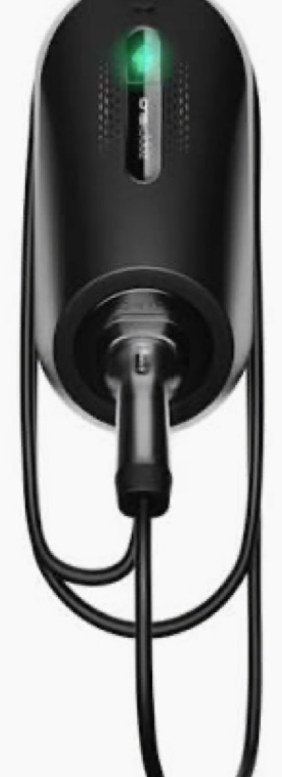
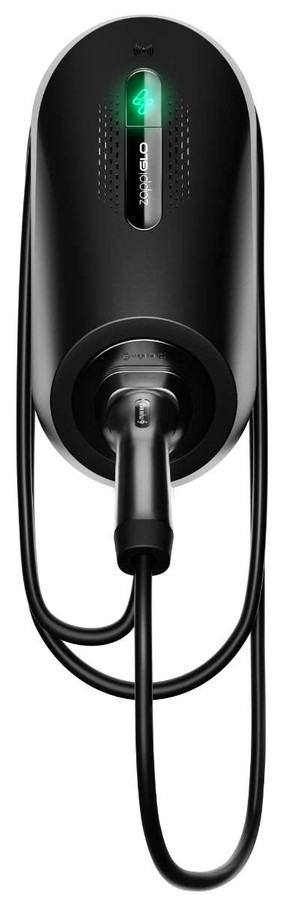
Replace Zappi Glo photo with a confirmed product shot (branding legible: ZappiGLO)

Changed region(s): [[0.0567, 0.0, 0.9645, 1.0], [0.2837, 0.3707, 0.3121, 0.4015]]

diff --git a/ev-charging.html b/ev-charging.html
@@ -18,7 +18,7 @@
 <link rel="preconnect" href="https://fonts.googleapis.com">
 <link rel="preconnect" href="https://fonts.gstatic.com" crossorigin>
 <link rel="stylesheet" href="https://fonts.googleapis.com/css2?family=Archivo:wght@600;700&family=Inter:wght@400;500;600;700&display=swap">
-<link rel="stylesheet" href="assets/site.css?v=49">
+<link rel="stylesheet" href="assets/site.css?v=50">
 <script type="application/ld+json">[{"@context":"https://schema.org","@type":"Service","serviceType":"EV charge point installation","description":"OZEV registered electric vehicle charge point installation for homes and workplaces across Shropshire.","url":"https://swelectrical.co.uk/ev-charging.html","provider":{"@id":"https://swelectrical.co.uk/#business"},"areaServed":{"@type":"AdministrativeArea","name":"Shropshire"},"audience":{"@type":"Audience","audienceType":"Homeowners, landlords, property managers and businesses"}},{"@context":"https://schema.org","@type":"FAQPage","mainEntity":[{"@type":"Question","name":"Do I need off-street parking?","acceptedAnswer":{"@type":"Answer","text":"For a home charge point, yes. The unit needs to reach the car where it is parked, on a drive, in a garage or on your own land. Running a cable across a public pavement is not something that can be signed off, so if you park on the street a home installation will not usually be possible."}},{"@type":"Question","name":"Do I need planning permission?","acceptedAnswer":{"@type":"Answer","text":"In most cases no. A charge point on a house or in a garage normally falls under permitted development, though listed buildings and conservation areas can be different. Your electricity network operator does need to be told about the extra load, and I handle that notification as part of the job, so it's not something you need to arrange."}},{"@type":"Question","name":"Where can the charge point go?","acceptedAnswer":{"@type":"Answer","text":"That depends on your parking, your incoming supply and the run of cable required. I'll look at the options with you before anything is fitted, and explain the trade-offs between the tidiest position and the most practical one."}},{"@type":"Question","name":"Can you fit charge points at a workplace?","acceptedAnswer":{"@type":"Answer","text":"Yes. Workplace and commercial installations are covered as well as domestic ones, including multiple units where the supply allows."}},{"@type":"Question","name":"Should I choose a tethered or untethered charger?","acceptedAnswer":{"@type":"Answer","text":"A tethered unit has the cable permanently attached, which is tidier day to day and means one less thing to carry. An untethered unit has a socket instead, so you use your own cable and it copes better if you change to a vehicle with a different connector. Neither is better in the abstract, it depends on how you use the car."}},{"@type":"Question","name":"Which charger should I choose?","acceptedAnswer":{"@type":"Answer","text":"Ask me directly. Suitability depends on your vehicle, your supply and how you'll use it, so it's better answered for your specific situation than promised in advance on a web page."}},{"@type":"Question","name":"Can I just use a three-pin plug socket instead?","acceptedAnswer":{"@type":"Answer","text":"It is not a sensible substitute. Charging from a standard socket draws a high current for many hours at a time, which is not what ordinary sockets and wiring are designed for, and it is considerably slower. A dedicated charge point is a properly protected circuit built for the job."}},{"@type":"Question","name":"How long does an installation take?","acceptedAnswer":{"@type":"Answer","text":"Around three to four hours for a straightforward installation. It can take longer depending on where the charge point needs to go and how far the cable has to run, so I'll give you a realistic idea once I've seen the job rather than quoting a time blind."}},{"@type":"Question","name":"How long will I wait from booking to installation?","acceptedAnswer":{"@type":"Answer","text":"Usually seven to ten working days for a standard booking. If you are claiming a government grant, allow the same again from the date your grant is approved, since the work cannot go ahead until that comes through."}},{"@type":"Question","name":"Will my power need to be switched off?","acceptedAnswer":{"@type":"Answer","text":"Briefly, yes. Connecting a new circuit at the consumer unit means the supply comes off for a short period. I'll tell you before it happens so you can shut anything down that needs shutting down first."}},{"@type":"Question","name":"Will I get certification for the work?","acceptedAnswer":{"@type":"Answer","text":"Yes. A charge point is a new circuit, so it is tested on completion and you get an electrical installation certificate. I'm NAPIT registered, so the work is notified through NAPIT as well."}},{"@type":"Question","name":"What is a surge protection device?","acceptedAnswer":{"@type":"Answer","text":"An SPD protects an installation against voltage spikes, whether from lightning strikes on the network or switching events further up the supply. Given a charge point is a permanent circuit connected to an expensive vehicle, I fit surge protection as standard on EV installations rather than treating it as an optional extra."}},{"@type":"Question","name":"What does OZEV registered mean?","acceptedAnswer":{"@type":"Answer","text":"OZEV is the Office for Zero Emission Vehicles. Being OZEV registered means I'm on the government's approved installer list for electric vehicle charge points."}}]}]</script>
 </head>
 <body>
@@ -199,7 +199,7 @@
   <a href="tel:+447968991258" data-tel><svg viewBox="0 0 24 24" fill="none" stroke="currentColor" stroke-width="2" stroke-linecap="round" stroke-linejoin="round" aria-hidden="true"><path d="M22 16.9v3a2 2 0 0 1-2.2 2 19.8 19.8 0 0 1-8.6-3.1 19.5 19.5 0 0 1-6-6A19.8 19.8 0 0 1 2.1 4.2 2 2 0 0 1 4.1 2h3a2 2 0 0 1 2 1.7c.1 1 .4 1.9.7 2.8a2 2 0 0 1-.5 2.1L8.1 9.9a16 16 0 0 0 6 6l1.3-1.2a2 2 0 0 1 2.1-.5c.9.3 1.8.6 2.8.7a2 2 0 0 1 1.7 2Z"/></svg>Call Sean</a>
   <a class="wa" href="https://wa.me/447968991258?text=Hi%20Sean%2C%20I'd%20like%20a%20quote%20for%20some%20electrical%20work." data-wa rel="noopener"><svg viewBox="0 0 24 24" fill="currentColor" aria-hidden="true"><path d="M12 2a10 10 0 0 0-8.5 15.2L2 22l4.9-1.4A10 10 0 1 0 12 2Zm5.6 14.1c-.2.6-1.2 1.2-1.7 1.2-.5.1-1 .1-1.6-.1-.4-.1-.9-.3-1.5-.6-2.7-1.2-4.4-3.9-4.5-4.1-.1-.2-1.1-1.4-1.1-2.7s.7-1.9.9-2.2c.2-.2.5-.3.7-.3h.5c.2 0 .4 0 .6.5l.8 2c.1.2.1.3 0 .5l-.3.5-.4.4c-.1.1-.3.3-.1.6.2.3.7 1.2 1.6 2 1.1.9 2 1.2 2.3 1.4.3.1.4.1.6-.1l.9-1c.2-.2.3-.2.6-.1l2 .9c.3.1.5.2.5.3.1.2.1.7-.1 1.4Z"/></svg>WhatsApp</a>
 </div>
-<script src="assets/config.js?v=49"></script>
-<script src="assets/site.js?v=49" defer></script>
+<script src="assets/config.js?v=50"></script>
+<script src="assets/site.js?v=50" defer></script>
 </body>
 </html>

diff --git a/index.html b/index.html
@@ -18,7 +18,7 @@
 <link rel="preconnect" href="https://fonts.googleapis.com">
 <link rel="preconnect" href="https://fonts.gstatic.com" crossorigin>
 <link rel="stylesheet" href="https://fonts.googleapis.com/css2?family=Archivo:wght@600;700&family=Inter:wght@400;500;600;700&display=swap">
-<link rel="stylesheet" href="assets/site.css?v=49">
+<link rel="stylesheet" href="assets/site.css?v=50">
 <script type="application/ld+json">[{"@context":"https://schema.org","@type":"Electrician","@id":"https://swelectrical.co.uk/#business","name":"SW Electrical","alternateName":"S Warrender Electrical","url":"https://swelectrical.co.uk/","logo":"https://swelectrical.co.uk/assets/logo-mark.svg","image":"https://swelectrical.co.uk/assets/logo-mark.svg","description":"Domestic and commercial electrician and OZEV registered EV charge point installer, based in Shrewsbury and covering Shropshire and the surrounding counties.","telephone":"+447968991258","email":"info@swelectrical.co.uk","founder":{"@type":"Person","name":"Sean Warrender"},"address":{"@type":"PostalAddress","addressLocality":"Shrewsbury","addressRegion":"Shropshire","postalCode":"SY3 9NT","addressCountry":"GB"},"areaServed":[{"@type":"AdministrativeArea","name":"Shropshire"},{"@type":"AdministrativeArea","name":"Staffordshire"},{"@type":"AdministrativeArea","name":"Cheshire"},{"@type":"AdministrativeArea","name":"West Midlands"}],"serviceArea":{"@type":"GeoCircle","geoMidpoint":{"@type":"GeoCoordinates","address":"SY3 9NT"},"geoRadius":"64000"},"openingHoursSpecification":[{"@type":"OpeningHoursSpecification","dayOfWeek":["Monday","Tuesday","Wednesday","Thursday","Friday"],"opens":"09:00","closes":"17:00"}],"hasCredential":["NAPIT registered","OZEV registered EV charge point installer"],"knowsAbout":["Domestic electrical installation","Commercial electrical installation","EV charge point installation","Electrical inspection and testing"],"hasOfferCatalog":{"@type":"OfferCatalog","name":"Electrical services","itemListElement":[{"@type":"Offer","itemOffered":{"@type":"Service","name":"Domestic electrical work","url":"https://swelectrical.co.uk/domestic-electrician.html"}},{"@type":"Offer","itemOffered":{"@type":"Service","name":"Commercial electrical work","url":"https://swelectrical.co.uk/commercial-electrician.html"}},{"@type":"Offer","itemOffered":{"@type":"Service","name":"EV charge point installation","url":"https://swelectrical.co.uk/ev-charging.html"}}]}},{"@context":"https://schema.org","@type":"FAQPage","mainEntity":[{"@type":"Question","name":"Which areas do you cover?","acceptedAnswer":{"@type":"Answer","text":"Shrewsbury and the whole of Shropshire, plus parts of Staffordshire, the Midlands and Cheshire. As a rule of thumb, roughly a 40 mile radius of SY3 9NT. If you're not sure whether you're in range, ask and I'll tell you straight."}},{"@type":"Question","name":"Do you take emergency call-outs?","acceptedAnswer":{"@type":"Answer","text":"Yes. Normal working hours are Monday to Friday, 9am to 5pm, but emergency call-outs are available at any time. If you have lost power, smell burning or have a fault you think is unsafe, call rather than email."}},{"@type":"Question","name":"Do you work for homeowners as well as businesses?","acceptedAnswer":{"@type":"Answer","text":"Both. I work for homeowners, landlords and property managers on domestic jobs, and for shops, offices, workshops and other commercial premises."}},{"@type":"Question","name":"Are you registered?","acceptedAnswer":{"@type":"Answer","text":"Yes. SW Electrical is registered with NAPIT for electrical work, and I'm OZEV registered for EV charge point installation."}},{"@type":"Question","name":"How do I get a quote?","acceptedAnswer":{"@type":"Answer","text":"Call or WhatsApp with a quick description of the job, or send the enquiry form with your postcode and a few details. For anything larger, I'll usually want to see the site before pricing it."}},{"@type":"Question","name":"When will air conditioning be available?","acceptedAnswer":{"@type":"Answer","text":"Air conditioning is planned, not live. The relevant registrations need to be in place before SW Electrical takes on that work, so nothing is being booked yet. You're welcome to register your interest and I'll let you know when it opens."}}]}]</script>
 </head>
 <body>
@@ -199,8 +199,8 @@
   <a href="tel:+447968991258" data-tel><svg viewBox="0 0 24 24" fill="none" stroke="currentColor" stroke-width="2" stroke-linecap="round" stroke-linejoin="round" aria-hidden="true"><path d="M22 16.9v3a2 2 0 0 1-2.2 2 19.8 19.8 0 0 1-8.6-3.1 19.5 19.5 0 0 1-6-6A19.8 19.8 0 0 1 2.1 4.2 2 2 0 0 1 4.1 2h3a2 2 0 0 1 2 1.7c.1 1 .4 1.9.7 2.8a2 2 0 0 1-.5 2.1L8.1 9.9a16 16 0 0 0 6 6l1.3-1.2a2 2 0 0 1 2.1-.5c.9.3 1.8.6 2.8.7a2 2 0 0 1 1.7 2Z"/></svg>Call Sean</a>
   <a class="wa" href="https://wa.me/447968991258?text=Hi%20Sean%2C%20I'd%20like%20a%20quote%20for%20some%20electrical%20work." data-wa rel="noopener"><svg viewBox="0 0 24 24" fill="currentColor" aria-hidden="true"><path d="M12 2a10 10 0 0 0-8.5 15.2L2 22l4.9-1.4A10 10 0 1 0 12 2Zm5.6 14.1c-.2.6-1.2 1.2-1.7 1.2-.5.1-1 .1-1.6-.1-.4-.1-.9-.3-1.5-.6-2.7-1.2-4.4-3.9-4.5-4.1-.1-.2-1.1-1.4-1.1-2.7s.7-1.9.9-2.2c.2-.2.5-.3.7-.3h.5c.2 0 .4 0 .6.5l.8 2c.1.2.1.3 0 .5l-.3.5-.4.4c-.1.1-.3.3-.1.6.2.3.7 1.2 1.6 2 1.1.9 2 1.2 2.3 1.4.3.1.4.1.6-.1l.9-1c.2-.2.3-.2.6-.1l2 .9c.3.1.5.2.5.3.1.2.1.7-.1 1.4Z"/></svg>WhatsApp</a>
 </div>
-<script src="assets/config.js?v=49"></script>
-<script src="assets/site.js?v=49" defer></script>
-<script src="assets/map.js?v=49" defer></script>
+<script src="assets/config.js?v=50"></script>
+<script src="assets/site.js?v=50" defer></script>
+<script src="assets/map.js?v=50" defer></script>
 </body>
 </html>

diff --git a/contact.html b/contact.html
@@ -18,7 +18,7 @@
 <link rel="preconnect" href="https://fonts.googleapis.com">
 <link rel="preconnect" href="https://fonts.gstatic.com" crossorigin>
 <link rel="stylesheet" href="https://fonts.googleapis.com/css2?family=Archivo:wght@600;700&family=Inter:wght@400;500;600;700&display=swap">
-<link rel="stylesheet" href="assets/site.css?v=49">
+<link rel="stylesheet" href="assets/site.css?v=50">
 <script type="application/ld+json">[{"@context":"https://schema.org","@type":"Electrician","@id":"https://swelectrical.co.uk/#business","name":"SW Electrical","alternateName":"S Warrender Electrical","url":"https://swelectrical.co.uk/","logo":"https://swelectrical.co.uk/assets/logo-mark.svg","image":"https://swelectrical.co.uk/assets/logo-mark.svg","description":"Domestic and commercial electrician and OZEV registered EV charge point installer, based in Shrewsbury and covering Shropshire and the surrounding counties.","telephone":"+447968991258","email":"info@swelectrical.co.uk","founder":{"@type":"Person","name":"Sean Warrender"},"address":{"@type":"PostalAddress","addressLocality":"Shrewsbury","addressRegion":"Shropshire","postalCode":"SY3 9NT","addressCountry":"GB"},"areaServed":[{"@type":"AdministrativeArea","name":"Shropshire"},{"@type":"AdministrativeArea","name":"Staffordshire"},{"@type":"AdministrativeArea","name":"Cheshire"},{"@type":"AdministrativeArea","name":"West Midlands"}],"serviceArea":{"@type":"GeoCircle","geoMidpoint":{"@type":"GeoCoordinates","address":"SY3 9NT"},"geoRadius":"64000"},"openingHoursSpecification":[{"@type":"OpeningHoursSpecification","dayOfWeek":["Monday","Tuesday","Wednesday","Thursday","Friday"],"opens":"09:00","closes":"17:00"}],"hasCredential":["NAPIT registered","OZEV registered EV charge point installer"],"knowsAbout":["Domestic electrical installation","Commercial electrical installation","EV charge point installation","Electrical inspection and testing"],"hasOfferCatalog":{"@type":"OfferCatalog","name":"Electrical services","itemListElement":[{"@type":"Offer","itemOffered":{"@type":"Service","name":"Domestic electrical work","url":"https://swelectrical.co.uk/domestic-electrician.html"}},{"@type":"Offer","itemOffered":{"@type":"Service","name":"Commercial electrical work","url":"https://swelectrical.co.uk/commercial-electrician.html"}},{"@type":"Offer","itemOffered":{"@type":"Service","name":"EV charge point installation","url":"https://swelectrical.co.uk/ev-charging.html"}}]}},{"@context":"https://schema.org","@type":"ContactPage","url":"https://swelectrical.co.uk/contact.html","about":{"@id":"https://swelectrical.co.uk/#business"}}]</script>
 </head>
 <body>
@@ -172,8 +172,8 @@
   <a href="tel:+447968991258" data-tel><svg viewBox="0 0 24 24" fill="none" stroke="currentColor" stroke-width="2" stroke-linecap="round" stroke-linejoin="round" aria-hidden="true"><path d="M22 16.9v3a2 2 0 0 1-2.2 2 19.8 19.8 0 0 1-8.6-3.1 19.5 19.5 0 0 1-6-6A19.8 19.8 0 0 1 2.1 4.2 2 2 0 0 1 4.1 2h3a2 2 0 0 1 2 1.7c.1 1 .4 1.9.7 2.8a2 2 0 0 1-.5 2.1L8.1 9.9a16 16 0 0 0 6 6l1.3-1.2a2 2 0 0 1 2.1-.5c.9.3 1.8.6 2.8.7a2 2 0 0 1 1.7 2Z"/></svg>Call Sean</a>
   <a class="wa" href="https://wa.me/447968991258?text=Hi%20Sean%2C%20I'd%20like%20a%20quote%20for%20some%20electrical%20work." data-wa rel="noopener"><svg viewBox="0 0 24 24" fill="currentColor" aria-hidden="true"><path d="M12 2a10 10 0 0 0-8.5 15.2L2 22l4.9-1.4A10 10 0 1 0 12 2Zm5.6 14.1c-.2.6-1.2 1.2-1.7 1.2-.5.1-1 .1-1.6-.1-.4-.1-.9-.3-1.5-.6-2.7-1.2-4.4-3.9-4.5-4.1-.1-.2-1.1-1.4-1.1-2.7s.7-1.9.9-2.2c.2-.2.5-.3.7-.3h.5c.2 0 .4 0 .6.5l.8 2c.1.2.1.3 0 .5l-.3.5-.4.4c-.1.1-.3.3-.1.6.2.3.7 1.2 1.6 2 1.1.9 2 1.2 2.3 1.4.3.1.4.1.6-.1l.9-1c.2-.2.3-.2.6-.1l2 .9c.3.1.5.2.5.3.1.2.1.7-.1 1.4Z"/></svg>WhatsApp</a>
 </div>
-<script src="assets/config.js?v=49"></script>
-<script src="assets/site.js?v=49" defer></script>
-<script src="assets/map.js?v=49" defer></script>
+<script src="assets/config.js?v=50"></script>
+<script src="assets/site.js?v=50" defer></script>
+<script src="assets/map.js?v=50" defer></script>
 </body>
 </html>

diff --git a/domestic-electrician.html b/domestic-electrician.html
@@ -18,7 +18,7 @@
 <link rel="preconnect" href="https://fonts.googleapis.com">
 <link rel="preconnect" href="https://fonts.gstatic.com" crossorigin>
 <link rel="stylesheet" href="https://fonts.googleapis.com/css2?family=Archivo:wght@600;700&family=Inter:wght@400;500;600;700&display=swap">
-<link rel="stylesheet" href="assets/site.css?v=49">
+<link rel="stylesheet" href="assets/site.css?v=50">
 <script type="application/ld+json">[{"@context":"https://schema.org","@type":"Service","serviceType":"Domestic electrical work","description":"Rewires, consumer units, sockets, lighting, fault finding, inspection and testing for homes across Shropshire.","url":"https://swelectrical.co.uk/domestic-electrician.html","provider":{"@id":"https://swelectrical.co.uk/#business"},"areaServed":{"@type":"AdministrativeArea","name":"Shropshire"},"audience":{"@type":"Audience","audienceType":"Homeowners, landlords, property managers and businesses"}},{"@context":"https://schema.org","@type":"FAQPage","mainEntity":[{"@type":"Question","name":"Do you do small jobs?","acceptedAnswer":{"@type":"Answer","text":"Yes. Extra sockets, a light fitting, a faulty circuit, an outside socket. Small jobs are still worth doing properly."}},{"@type":"Question","name":"Can you provide a landlord's electrical report?","acceptedAnswer":{"@type":"Answer","text":"Yes. I carry out periodic inspection and testing and provide the written report, along with any remedial work needed."}},{"@type":"Question","name":"Will you make a mess?","acceptedAnswer":{"@type":"Answer","text":"Chasing walls and lifting boards is sometimes unavoidable, but dust sheets go down, mess gets cleared, and you will be told in advance if making good is needed."}}]}]</script>
 </head>
 <body>
@@ -128,7 +128,7 @@
   <a href="tel:+447968991258" data-tel><svg viewBox="0 0 24 24" fill="none" stroke="currentColor" stroke-width="2" stroke-linecap="round" stroke-linejoin="round" aria-hidden="true"><path d="M22 16.9v3a2 2 0 0 1-2.2 2 19.8 19.8 0 0 1-8.6-3.1 19.5 19.5 0 0 1-6-6A19.8 19.8 0 0 1 2.1 4.2 2 2 0 0 1 4.1 2h3a2 2 0 0 1 2 1.7c.1 1 .4 1.9.7 2.8a2 2 0 0 1-.5 2.1L8.1 9.9a16 16 0 0 0 6 6l1.3-1.2a2 2 0 0 1 2.1-.5c.9.3 1.8.6 2.8.7a2 2 0 0 1 1.7 2Z"/></svg>Call Sean</a>
   <a class="wa" href="https://wa.me/447968991258?text=Hi%20Sean%2C%20I'd%20like%20a%20quote%20for%20some%20electrical%20work." data-wa rel="noopener"><svg viewBox="0 0 24 24" fill="currentColor" aria-hidden="true"><path d="M12 2a10 10 0 0 0-8.5 15.2L2 22l4.9-1.4A10 10 0 1 0 12 2Zm5.6 14.1c-.2.6-1.2 1.2-1.7 1.2-.5.1-1 .1-1.6-.1-.4-.1-.9-.3-1.5-.6-2.7-1.2-4.4-3.9-4.5-4.1-.1-.2-1.1-1.4-1.1-2.7s.7-1.9.9-2.2c.2-.2.5-.3.7-.3h.5c.2 0 .4 0 .6.5l.8 2c.1.2.1.3 0 .5l-.3.5-.4.4c-.1.1-.3.3-.1.6.2.3.7 1.2 1.6 2 1.1.9 2 1.2 2.3 1.4.3.1.4.1.6-.1l.9-1c.2-.2.3-.2.6-.1l2 .9c.3.1.5.2.5.3.1.2.1.7-.1 1.4Z"/></svg>WhatsApp</a>
 </div>
-<script src="assets/config.js?v=49"></script>
-<script src="assets/site.js?v=49" defer></script>
+<script src="assets/config.js?v=50"></script>
+<script src="assets/site.js?v=50" defer></script>
 </body>
 </html>

diff --git a/commercial-electrician.html b/commercial-electrician.html
@@ -18,7 +18,7 @@
 <link rel="preconnect" href="https://fonts.googleapis.com">
 <link rel="preconnect" href="https://fonts.gstatic.com" crossorigin>
 <link rel="stylesheet" href="https://fonts.googleapis.com/css2?family=Archivo:wght@600;700&family=Inter:wght@400;500;600;700&display=swap">
-<link rel="stylesheet" href="assets/site.css?v=49">
+<link rel="stylesheet" href="assets/site.css?v=50">
 <script type="application/ld+json">[{"@context":"https://schema.org","@type":"Service","serviceType":"Commercial electrical work","description":"Electrical installation, maintenance, repair, inspection and testing for commercial premises across Shropshire.","url":"https://swelectrical.co.uk/commercial-electrician.html","provider":{"@id":"https://swelectrical.co.uk/#business"},"areaServed":{"@type":"AdministrativeArea","name":"Shropshire"},"audience":{"@type":"Audience","audienceType":"Homeowners, landlords, property managers and businesses"}},{"@context":"https://schema.org","@type":"FAQPage","mainEntity":[{"@type":"Question","name":"Can you work outside our opening hours?","acceptedAnswer":{"@type":"Answer","text":"Where the job allows it, yes. Evening and weekend work can usually be arranged so the disruption lands when the premises is quiet."}},{"@type":"Question","name":"Do you take on maintenance as well as installation?","acceptedAnswer":{"@type":"Answer","text":"Yes. Ongoing maintenance, planned upgrades and reactive repairs are all part of the commercial work."}},{"@type":"Question","name":"Do you cover emergencies for businesses?","acceptedAnswer":{"@type":"Answer","text":"Yes. Emergency call-outs are available at any time, including outside the standard Monday to Friday hours."}}]}]</script>
 </head>
 <body>
@@ -120,7 +120,7 @@
   <a href="tel:+447968991258" data-tel><svg viewBox="0 0 24 24" fill="none" stroke="currentColor" stroke-width="2" stroke-linecap="round" stroke-linejoin="round" aria-hidden="true"><path d="M22 16.9v3a2 2 0 0 1-2.2 2 19.8 19.8 0 0 1-8.6-3.1 19.5 19.5 0 0 1-6-6A19.8 19.8 0 0 1 2.1 4.2 2 2 0 0 1 4.1 2h3a2 2 0 0 1 2 1.7c.1 1 .4 1.9.7 2.8a2 2 0 0 1-.5 2.1L8.1 9.9a16 16 0 0 0 6 6l1.3-1.2a2 2 0 0 1 2.1-.5c.9.3 1.8.6 2.8.7a2 2 0 0 1 1.7 2Z"/></svg>Call Sean</a>
   <a class="wa" href="https://wa.me/447968991258?text=Hi%20Sean%2C%20I'd%20like%20a%20quote%20for%20some%20electrical%20work." data-wa rel="noopener"><svg viewBox="0 0 24 24" fill="currentColor" aria-hidden="true"><path d="M12 2a10 10 0 0 0-8.5 15.2L2 22l4.9-1.4A10 10 0 1 0 12 2Zm5.6 14.1c-.2.6-1.2 1.2-1.7 1.2-.5.1-1 .1-1.6-.1-.4-.1-.9-.3-1.5-.6-2.7-1.2-4.4-3.9-4.5-4.1-.1-.2-1.1-1.4-1.1-2.7s.7-1.9.9-2.2c.2-.2.5-.3.7-.3h.5c.2 0 .4 0 .6.5l.8 2c.1.2.1.3 0 .5l-.3.5-.4.4c-.1.1-.3.3-.1.6.2.3.7 1.2 1.6 2 1.1.9 2 1.2 2.3 1.4.3.1.4.1.6-.1l.9-1c.2-.2.3-.2.6-.1l2 .9c.3.1.5.2.5.3.1.2.1.7-.1 1.4Z"/></svg>WhatsApp</a>
 </div>
-<script src="assets/config.js?v=49"></script>
-<script src="assets/site.js?v=49" defer></script>
+<script src="assets/config.js?v=50"></script>
+<script src="assets/site.js?v=50" defer></script>
 </body>
 </html>

diff --git a/air-conditioning.html b/air-conditioning.html
@@ -18,7 +18,7 @@
 <link rel="preconnect" href="https://fonts.googleapis.com">
 <link rel="preconnect" href="https://fonts.gstatic.com" crossorigin>
 <link rel="stylesheet" href="https://fonts.googleapis.com/css2?family=Archivo:wght@600;700&family=Inter:wght@400;500;600;700&display=swap">
-<link rel="stylesheet" href="assets/site.css?v=49">
+<link rel="stylesheet" href="assets/site.css?v=50">
 <script type="application/ld+json">[{"@context":"https://schema.org","@type":"FAQPage","mainEntity":[{"@type":"Question","name":"Can I book air conditioning work now?","acceptedAnswer":{"@type":"Answer","text":"No. Air conditioning is planned but not yet offered. Nothing is being booked until the required registrations are confirmed."}},{"@type":"Question","name":"Is SW Electrical REFCOM or F-Gas registered?","acceptedAnswer":{"@type":"Answer","text":"Not currently. Those registrations are expected before any air conditioning work is offered, and this page will be updated when that is confirmed."}},{"@type":"Question","name":"What can I do in the meantime?","acceptedAnswer":{"@type":"Answer","text":"Register your interest using the contact form and mention air conditioning. I'll get in touch once the service is live."}}]}]</script>
 </head>
 <body>
@@ -112,7 +112,7 @@
   <a href="tel:+447968991258" data-tel><svg viewBox="0 0 24 24" fill="none" stroke="currentColor" stroke-width="2" stroke-linecap="round" stroke-linejoin="round" aria-hidden="true"><path d="M22 16.9v3a2 2 0 0 1-2.2 2 19.8 19.8 0 0 1-8.6-3.1 19.5 19.5 0 0 1-6-6A19.8 19.8 0 0 1 2.1 4.2 2 2 0 0 1 4.1 2h3a2 2 0 0 1 2 1.7c.1 1 .4 1.9.7 2.8a2 2 0 0 1-.5 2.1L8.1 9.9a16 16 0 0 0 6 6l1.3-1.2a2 2 0 0 1 2.1-.5c.9.3 1.8.6 2.8.7a2 2 0 0 1 1.7 2Z"/></svg>Call Sean</a>
   <a class="wa" href="https://wa.me/447968991258?text=Hi%20Sean%2C%20I'd%20like%20a%20quote%20for%20some%20electrical%20work." data-wa rel="noopener"><svg viewBox="0 0 24 24" fill="currentColor" aria-hidden="true"><path d="M12 2a10 10 0 0 0-8.5 15.2L2 22l4.9-1.4A10 10 0 1 0 12 2Zm5.6 14.1c-.2.6-1.2 1.2-1.7 1.2-.5.1-1 .1-1.6-.1-.4-.1-.9-.3-1.5-.6-2.7-1.2-4.4-3.9-4.5-4.1-.1-.2-1.1-1.4-1.1-2.7s.7-1.9.9-2.2c.2-.2.5-.3.7-.3h.5c.2 0 .4 0 .6.5l.8 2c.1.2.1.3 0 .5l-.3.5-.4.4c-.1.1-.3.3-.1.6.2.3.7 1.2 1.6 2 1.1.9 2 1.2 2.3 1.4.3.1.4.1.6-.1l.9-1c.2-.2.3-.2.6-.1l2 .9c.3.1.5.2.5.3.1.2.1.7-.1 1.4Z"/></svg>WhatsApp</a>
 </div>
-<script src="assets/config.js?v=49"></script>
-<script src="assets/site.js?v=49" defer></script>
+<script src="assets/config.js?v=50"></script>
+<script src="assets/site.js?v=50" defer></script>
 </body>
 </html>

diff --git a/areas-covered.html b/areas-covered.html
@@ -18,7 +18,7 @@
 <link rel="preconnect" href="https://fonts.googleapis.com">
 <link rel="preconnect" href="https://fonts.gstatic.com" crossorigin>
 <link rel="stylesheet" href="https://fonts.googleapis.com/css2?family=Archivo:wght@600;700&family=Inter:wght@400;500;600;700&display=swap">
-<link rel="stylesheet" href="assets/site.css?v=49">
+<link rel="stylesheet" href="assets/site.css?v=50">
 <script type="application/ld+json">[{"@context":"https://schema.org","@type":"FAQPage","mainEntity":[{"@type":"Question","name":"How far will you travel?","acceptedAnswer":{"@type":"Answer","text":"Roughly a 40 mile radius of SY3 9NT covers most of it. Beyond that it depends on the job, so it's always worth asking."}},{"@type":"Question","name":"Do you cover Telford and Shrewsbury?","acceptedAnswer":{"@type":"Answer","text":"Yes, both, along with the rest of Shropshire."}},{"@type":"Question","name":"Do you work in Staffordshire and Cheshire?","acceptedAnswer":{"@type":"Answer","text":"Parts of both, along with parts of the wider Midlands, where the journey makes sense for the job."}}]}]</script>
 </head>
 <body>
@@ -133,8 +133,8 @@
   <a href="tel:+447968991258" data-tel><svg viewBox="0 0 24 24" fill="none" stroke="currentColor" stroke-width="2" stroke-linecap="round" stroke-linejoin="round" aria-hidden="true"><path d="M22 16.9v3a2 2 0 0 1-2.2 2 19.8 19.8 0 0 1-8.6-3.1 19.5 19.5 0 0 1-6-6A19.8 19.8 0 0 1 2.1 4.2 2 2 0 0 1 4.1 2h3a2 2 0 0 1 2 1.7c.1 1 .4 1.9.7 2.8a2 2 0 0 1-.5 2.1L8.1 9.9a16 16 0 0 0 6 6l1.3-1.2a2 2 0 0 1 2.1-.5c.9.3 1.8.6 2.8.7a2 2 0 0 1 1.7 2Z"/></svg>Call Sean</a>
   <a class="wa" href="https://wa.me/447968991258?text=Hi%20Sean%2C%20I'd%20like%20a%20quote%20for%20some%20electrical%20work." data-wa rel="noopener"><svg viewBox="0 0 24 24" fill="currentColor" aria-hidden="true"><path d="M12 2a10 10 0 0 0-8.5 15.2L2 22l4.9-1.4A10 10 0 1 0 12 2Zm5.6 14.1c-.2.6-1.2 1.2-1.7 1.2-.5.1-1 .1-1.6-.1-.4-.1-.9-.3-1.5-.6-2.7-1.2-4.4-3.9-4.5-4.1-.1-.2-1.1-1.4-1.1-2.7s.7-1.9.9-2.2c.2-.2.5-.3.7-.3h.5c.2 0 .4 0 .6.5l.8 2c.1.2.1.3 0 .5l-.3.5-.4.4c-.1.1-.3.3-.1.6.2.3.7 1.2 1.6 2 1.1.9 2 1.2 2.3 1.4.3.1.4.1.6-.1l.9-1c.2-.2.3-.2.6-.1l2 .9c.3.1.5.2.5.3.1.2.1.7-.1 1.4Z"/></svg>WhatsApp</a>
 </div>
-<script src="assets/config.js?v=49"></script>
-<script src="assets/site.js?v=49" defer></script>
-<script src="assets/map.js?v=49" defer></script>
+<script src="assets/config.js?v=50"></script>
+<script src="assets/site.js?v=50" defer></script>
+<script src="assets/map.js?v=50" defer></script>
 </body>
 </html>

diff --git a/services.html b/services.html
@@ -18,7 +18,7 @@
 <link rel="preconnect" href="https://fonts.googleapis.com">
 <link rel="preconnect" href="https://fonts.gstatic.com" crossorigin>
 <link rel="stylesheet" href="https://fonts.googleapis.com/css2?family=Archivo:wght@600;700&family=Inter:wght@400;500;600;700&display=swap">
-<link rel="stylesheet" href="assets/site.css?v=49">
+<link rel="stylesheet" href="assets/site.css?v=50">
 <script type="application/ld+json">[{"@context":"https://schema.org","@type":"Service","serviceType":"Electrical services","description":"Domestic and commercial electrical installation, maintenance, inspection and repair across Shropshire.","url":"https://swelectrical.co.uk/services.html","provider":{"@id":"https://swelectrical.co.uk/#business"},"areaServed":{"@type":"AdministrativeArea","name":"Shropshire"},"audience":{"@type":"Audience","audienceType":"Homeowners, landlords, property managers and businesses"}}]</script>
 </head>
 <body>
@@ -159,7 +159,7 @@
   <a href="tel:+447968991258" data-tel><svg viewBox="0 0 24 24" fill="none" stroke="currentColor" stroke-width="2" stroke-linecap="round" stroke-linejoin="round" aria-hidden="true"><path d="M22 16.9v3a2 2 0 0 1-2.2 2 19.8 19.8 0 0 1-8.6-3.1 19.5 19.5 0 0 1-6-6A19.8 19.8 0 0 1 2.1 4.2 2 2 0 0 1 4.1 2h3a2 2 0 0 1 2 1.7c.1 1 .4 1.9.7 2.8a2 2 0 0 1-.5 2.1L8.1 9.9a16 16 0 0 0 6 6l1.3-1.2a2 2 0 0 1 2.1-.5c.9.3 1.8.6 2.8.7a2 2 0 0 1 1.7 2Z"/></svg>Call Sean</a>
   <a class="wa" href="https://wa.me/447968991258?text=Hi%20Sean%2C%20I'd%20like%20a%20quote%20for%20some%20electrical%20work." data-wa rel="noopener"><svg viewBox="0 0 24 24" fill="currentColor" aria-hidden="true"><path d="M12 2a10 10 0 0 0-8.5 15.2L2 22l4.9-1.4A10 10 0 1 0 12 2Zm5.6 14.1c-.2.6-1.2 1.2-1.7 1.2-.5.1-1 .1-1.6-.1-.4-.1-.9-.3-1.5-.6-2.7-1.2-4.4-3.9-4.5-4.1-.1-.2-1.1-1.4-1.1-2.7s.7-1.9.9-2.2c.2-.2.5-.3.7-.3h.5c.2 0 .4 0 .6.5l.8 2c.1.2.1.3 0 .5l-.3.5-.4.4c-.1.1-.3.3-.1.6.2.3.7 1.2 1.6 2 1.1.9 2 1.2 2.3 1.4.3.1.4.1.6-.1l.9-1c.2-.2.3-.2.6-.1l2 .9c.3.1.5.2.5.3.1.2.1.7-.1 1.4Z"/></svg>WhatsApp</a>
 </div>
-<script src="assets/config.js?v=49"></script>
-<script src="assets/site.js?v=49" defer></script>
+<script src="assets/config.js?v=50"></script>
+<script src="assets/site.js?v=50" defer></script>
 </body>
 </html>

diff --git a/ev-survey.html b/ev-survey.html
@@ -18,7 +18,7 @@
 <link rel="preconnect" href="https://fonts.googleapis.com">
 <link rel="preconnect" href="https://fonts.gstatic.com" crossorigin>
 <link rel="stylesheet" href="https://fonts.googleapis.com/css2?family=Archivo:wght@600;700&family=Inter:wght@400;500;600;700&display=swap">
-<link rel="stylesheet" href="assets/site.css?v=49">
+<link rel="stylesheet" href="assets/site.css?v=50">
 <script type="application/ld+json">[{"@context":"https://schema.org","@type":"WebPage","name":"EV charge point survey","url":"https://swelectrical.co.uk/ev-survey.html"}]</script>
 </head>
 <body>
@@ -281,8 +281,8 @@
   <a href="tel:+447968991258" data-tel><svg viewBox="0 0 24 24" fill="none" stroke="currentColor" stroke-width="2" stroke-linecap="round" stroke-linejoin="round" aria-hidden="true"><path d="M22 16.9v3a2 2 0 0 1-2.2 2 19.8 19.8 0 0 1-8.6-3.1 19.5 19.5 0 0 1-6-6A19.8 19.8 0 0 1 2.1 4.2 2 2 0 0 1 4.1 2h3a2 2 0 0 1 2 1.7c.1 1 .4 1.9.7 2.8a2 2 0 0 1-.5 2.1L8.1 9.9a16 16 0 0 0 6 6l1.3-1.2a2 2 0 0 1 2.1-.5c.9.3 1.8.6 2.8.7a2 2 0 0 1 1.7 2Z"/></svg>Call Sean</a>
   <a class="wa" href="https://wa.me/447968991258?text=Hi%20Sean%2C%20I'd%20like%20a%20quote%20for%20some%20electrical%20work." data-wa rel="noopener"><svg viewBox="0 0 24 24" fill="currentColor" aria-hidden="true"><path d="M12 2a10 10 0 0 0-8.5 15.2L2 22l4.9-1.4A10 10 0 1 0 12 2Zm5.6 14.1c-.2.6-1.2 1.2-1.7 1.2-.5.1-1 .1-1.6-.1-.4-.1-.9-.3-1.5-.6-2.7-1.2-4.4-3.9-4.5-4.1-.1-.2-1.1-1.4-1.1-2.7s.7-1.9.9-2.2c.2-.2.5-.3.7-.3h.5c.2 0 .4 0 .6.5l.8 2c.1.2.1.3 0 .5l-.3.5-.4.4c-.1.1-.3.3-.1.6.2.3.7 1.2 1.6 2 1.1.9 2 1.2 2.3 1.4.3.1.4.1.6-.1l.9-1c.2-.2.3-.2.6-.1l2 .9c.3.1.5.2.5.3.1.2.1.7-.1 1.4Z"/></svg>WhatsApp</a>
 </div>
-<script src="assets/config.js?v=49"></script>
-<script src="assets/site.js?v=49" defer></script>
-<script src="assets/survey.js?v=49" defer></script>
+<script src="assets/config.js?v=50"></script>
+<script src="assets/site.js?v=50" defer></script>
+<script src="assets/survey.js?v=50" defer></script>
 </body>
 </html>

diff --git a/about.html b/about.html
@@ -18,7 +18,7 @@
 <link rel="preconnect" href="https://fonts.googleapis.com">
 <link rel="preconnect" href="https://fonts.gstatic.com" crossorigin>
 <link rel="stylesheet" href="https://fonts.googleapis.com/css2?family=Archivo:wght@600;700&family=Inter:wght@400;500;600;700&display=swap">
-<link rel="stylesheet" href="assets/site.css?v=49">
+<link rel="stylesheet" href="assets/site.css?v=50">
 <script type="application/ld+json">[{"@context":"https://schema.org","@type":"AboutPage","url":"https://swelectrical.co.uk/about.html","mainEntity":{"@type":"Person","name":"Sean Warrender","jobTitle":"Electrician","worksFor":{"@id":"https://swelectrical.co.uk/#business"}}}]</script>
 </head>
 <body>
@@ -114,7 +114,7 @@
   <a href="tel:+447968991258" data-tel><svg viewBox="0 0 24 24" fill="none" stroke="currentColor" stroke-width="2" stroke-linecap="round" stroke-linejoin="round" aria-hidden="true"><path d="M22 16.9v3a2 2 0 0 1-2.2 2 19.8 19.8 0 0 1-8.6-3.1 19.5 19.5 0 0 1-6-6A19.8 19.8 0 0 1 2.1 4.2 2 2 0 0 1 4.1 2h3a2 2 0 0 1 2 1.7c.1 1 .4 1.9.7 2.8a2 2 0 0 1-.5 2.1L8.1 9.9a16 16 0 0 0 6 6l1.3-1.2a2 2 0 0 1 2.1-.5c.9.3 1.8.6 2.8.7a2 2 0 0 1 1.7 2Z"/></svg>Call Sean</a>
   <a class="wa" href="https://wa.me/447968991258?text=Hi%20Sean%2C%20I'd%20like%20a%20quote%20for%20some%20electrical%20work." data-wa rel="noopener"><svg viewBox="0 0 24 24" fill="currentColor" aria-hidden="true"><path d="M12 2a10 10 0 0 0-8.5 15.2L2 22l4.9-1.4A10 10 0 1 0 12 2Zm5.6 14.1c-.2.6-1.2 1.2-1.7 1.2-.5.1-1 .1-1.6-.1-.4-.1-.9-.3-1.5-.6-2.7-1.2-4.4-3.9-4.5-4.1-.1-.2-1.1-1.4-1.1-2.7s.7-1.9.9-2.2c.2-.2.5-.3.7-.3h.5c.2 0 .4 0 .6.5l.8 2c.1.2.1.3 0 .5l-.3.5-.4.4c-.1.1-.3.3-.1.6.2.3.7 1.2 1.6 2 1.1.9 2 1.2 2.3 1.4.3.1.4.1.6-.1l.9-1c.2-.2.3-.2.6-.1l2 .9c.3.1.5.2.5.3.1.2.1.7-.1 1.4Z"/></svg>WhatsApp</a>
 </div>
-<script src="assets/config.js?v=49"></script>
-<script src="assets/site.js?v=49" defer></script>
+<script src="assets/config.js?v=50"></script>
+<script src="assets/site.js?v=50" defer></script>
 </body>
 </html>

diff --git a/privacy.html b/privacy.html
@@ -18,7 +18,7 @@
 <link rel="preconnect" href="https://fonts.googleapis.com">
 <link rel="preconnect" href="https://fonts.gstatic.com" crossorigin>
 <link rel="stylesheet" href="https://fonts.googleapis.com/css2?family=Archivo:wght@600;700&family=Inter:wght@400;500;600;700&display=swap">
-<link rel="stylesheet" href="assets/site.css?v=49">
+<link rel="stylesheet" href="assets/site.css?v=50">
 <script type="application/ld+json">[{"@context":"https://schema.org","@type":"WebPage","name":"Privacy","url":"https://swelectrical.co.uk/privacy.html"}]</script>
 </head>
 <body>
@@ -144,7 +144,7 @@
   <a href="tel:+447968991258" data-tel><svg viewBox="0 0 24 24" fill="none" stroke="currentColor" stroke-width="2" stroke-linecap="round" stroke-linejoin="round" aria-hidden="true"><path d="M22 16.9v3a2 2 0 0 1-2.2 2 19.8 19.8 0 0 1-8.6-3.1 19.5 19.5 0 0 1-6-6A19.8 19.8 0 0 1 2.1 4.2 2 2 0 0 1 4.1 2h3a2 2 0 0 1 2 1.7c.1 1 .4 1.9.7 2.8a2 2 0 0 1-.5 2.1L8.1 9.9a16 16 0 0 0 6 6l1.3-1.2a2 2 0 0 1 2.1-.5c.9.3 1.8.6 2.8.7a2 2 0 0 1 1.7 2Z"/></svg>Call Sean</a>
   <a class="wa" href="https://wa.me/447968991258?text=Hi%20Sean%2C%20I'd%20like%20a%20quote%20for%20some%20electrical%20work." data-wa rel="noopener"><svg viewBox="0 0 24 24" fill="currentColor" aria-hidden="true"><path d="M12 2a10 10 0 0 0-8.5 15.2L2 22l4.9-1.4A10 10 0 1 0 12 2Zm5.6 14.1c-.2.6-1.2 1.2-1.7 1.2-.5.1-1 .1-1.6-.1-.4-.1-.9-.3-1.5-.6-2.7-1.2-4.4-3.9-4.5-4.1-.1-.2-1.1-1.4-1.1-2.7s.7-1.9.9-2.2c.2-.2.5-.3.7-.3h.5c.2 0 .4 0 .6.5l.8 2c.1.2.1.3 0 .5l-.3.5-.4.4c-.1.1-.3.3-.1.6.2.3.7 1.2 1.6 2 1.1.9 2 1.2 2.3 1.4.3.1.4.1.6-.1l.9-1c.2-.2.3-.2.6-.1l2 .9c.3.1.5.2.5.3.1.2.1.7-.1 1.4Z"/></svg>WhatsApp</a>
 </div>
-<script src="assets/config.js?v=49"></script>
-<script src="assets/site.js?v=49" defer></script>
+<script src="assets/config.js?v=50"></script>
+<script src="assets/site.js?v=50" defer></script>
 </body>
 </html>

diff --git a/404.html b/404.html
@@ -18,7 +18,7 @@
 <link rel="preconnect" href="https://fonts.googleapis.com">
 <link rel="preconnect" href="https://fonts.gstatic.com" crossorigin>
 <link rel="stylesheet" href="https://fonts.googleapis.com/css2?family=Archivo:wght@600;700&family=Inter:wght@400;500;600;700&display=swap">
-<link rel="stylesheet" href="assets/site.css?v=49">
+<link rel="stylesheet" href="assets/site.css?v=50">
 <script type="application/ld+json">[{"@context":"https://schema.org","@type":"WebPage","name":"Page not found"}]</script>
 </head>
 <body>
@@ -96,7 +96,7 @@
   <a href="tel:+447968991258" data-tel><svg viewBox="0 0 24 24" fill="none" stroke="currentColor" stroke-width="2" stroke-linecap="round" stroke-linejoin="round" aria-hidden="true"><path d="M22 16.9v3a2 2 0 0 1-2.2 2 19.8 19.8 0 0 1-8.6-3.1 19.5 19.5 0 0 1-6-6A19.8 19.8 0 0 1 2.1 4.2 2 2 0 0 1 4.1 2h3a2 2 0 0 1 2 1.7c.1 1 .4 1.9.7 2.8a2 2 0 0 1-.5 2.1L8.1 9.9a16 16 0 0 0 6 6l1.3-1.2a2 2 0 0 1 2.1-.5c.9.3 1.8.6 2.8.7a2 2 0 0 1 1.7 2Z"/></svg>Call Sean</a>
   <a class="wa" href="https://wa.me/447968991258?text=Hi%20Sean%2C%20I'd%20like%20a%20quote%20for%20some%20electrical%20work." data-wa rel="noopener"><svg viewBox="0 0 24 24" fill="currentColor" aria-hidden="true"><path d="M12 2a10 10 0 0 0-8.5 15.2L2 22l4.9-1.4A10 10 0 1 0 12 2Zm5.6 14.1c-.2.6-1.2 1.2-1.7 1.2-.5.1-1 .1-1.6-.1-.4-.1-.9-.3-1.5-.6-2.7-1.2-4.4-3.9-4.5-4.1-.1-.2-1.1-1.4-1.1-2.7s.7-1.9.9-2.2c.2-.2.5-.3.7-.3h.5c.2 0 .4 0 .6.5l.8 2c.1.2.1.3 0 .5l-.3.5-.4.4c-.1.1-.3.3-.1.6.2.3.7 1.2 1.6 2 1.1.9 2 1.2 2.3 1.4.3.1.4.1.6-.1l.9-1c.2-.2.3-.2.6-.1l2 .9c.3.1.5.2.5.3.1.2.1.7-.1 1.4Z"/></svg>WhatsApp</a>
 </div>
-<script src="assets/config.js?v=49"></script>
-<script src="assets/site.js?v=49" defer></script>
+<script src="assets/config.js?v=50"></script>
+<script src="assets/site.js?v=50" defer></script>
 </body>
 </html>
